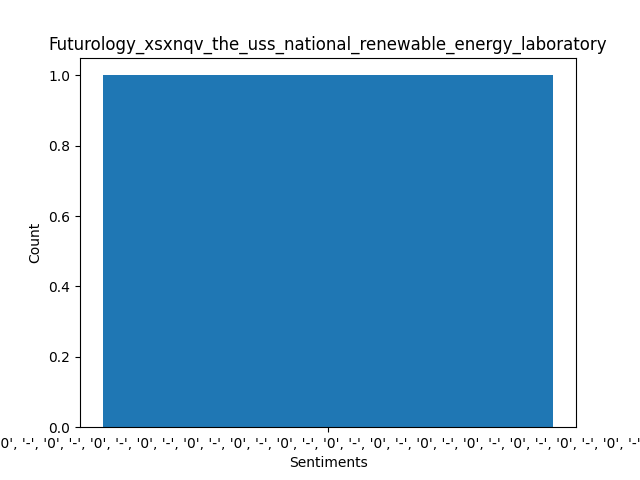
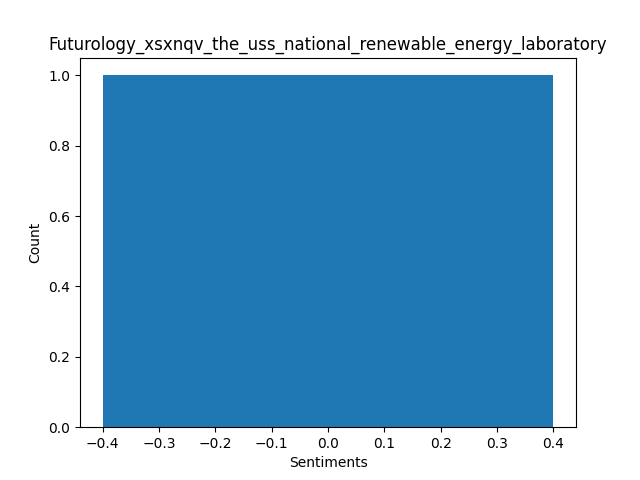
Fixed graphs

diff --git a/visualizer/reddit_pandas.py b/visualizer/reddit_pandas.py
@@ -15,15 +15,14 @@ def get_graph(vibe_dir, plot_dir):
             df = json_to_pandas(json_data)
 
             if df is not None:
-                vibe_count = df.loc[0].value_counts()
-
+                vibe_count = df.iloc[0].value_counts()
+                vibe_labels = df.index.tolist()
+                
                 # Reset graph
                 plt.clf()
-
-                vibe_str = [str(vibe) for vibe in vibe_count.index]
                 
                 # Plot the data frame
-                plt.bar(vibe_str, vibe_count.values)
+                plt.bar(vibe_labels, vibe_count.values)
                 plt.xlabel('Sentiments')
                 plt.ylabel('Count')
                 plt.title(f'{file_name.replace("reddit_r_", "").replace("comments_", "").replace("_sentiment.json", "")}')
